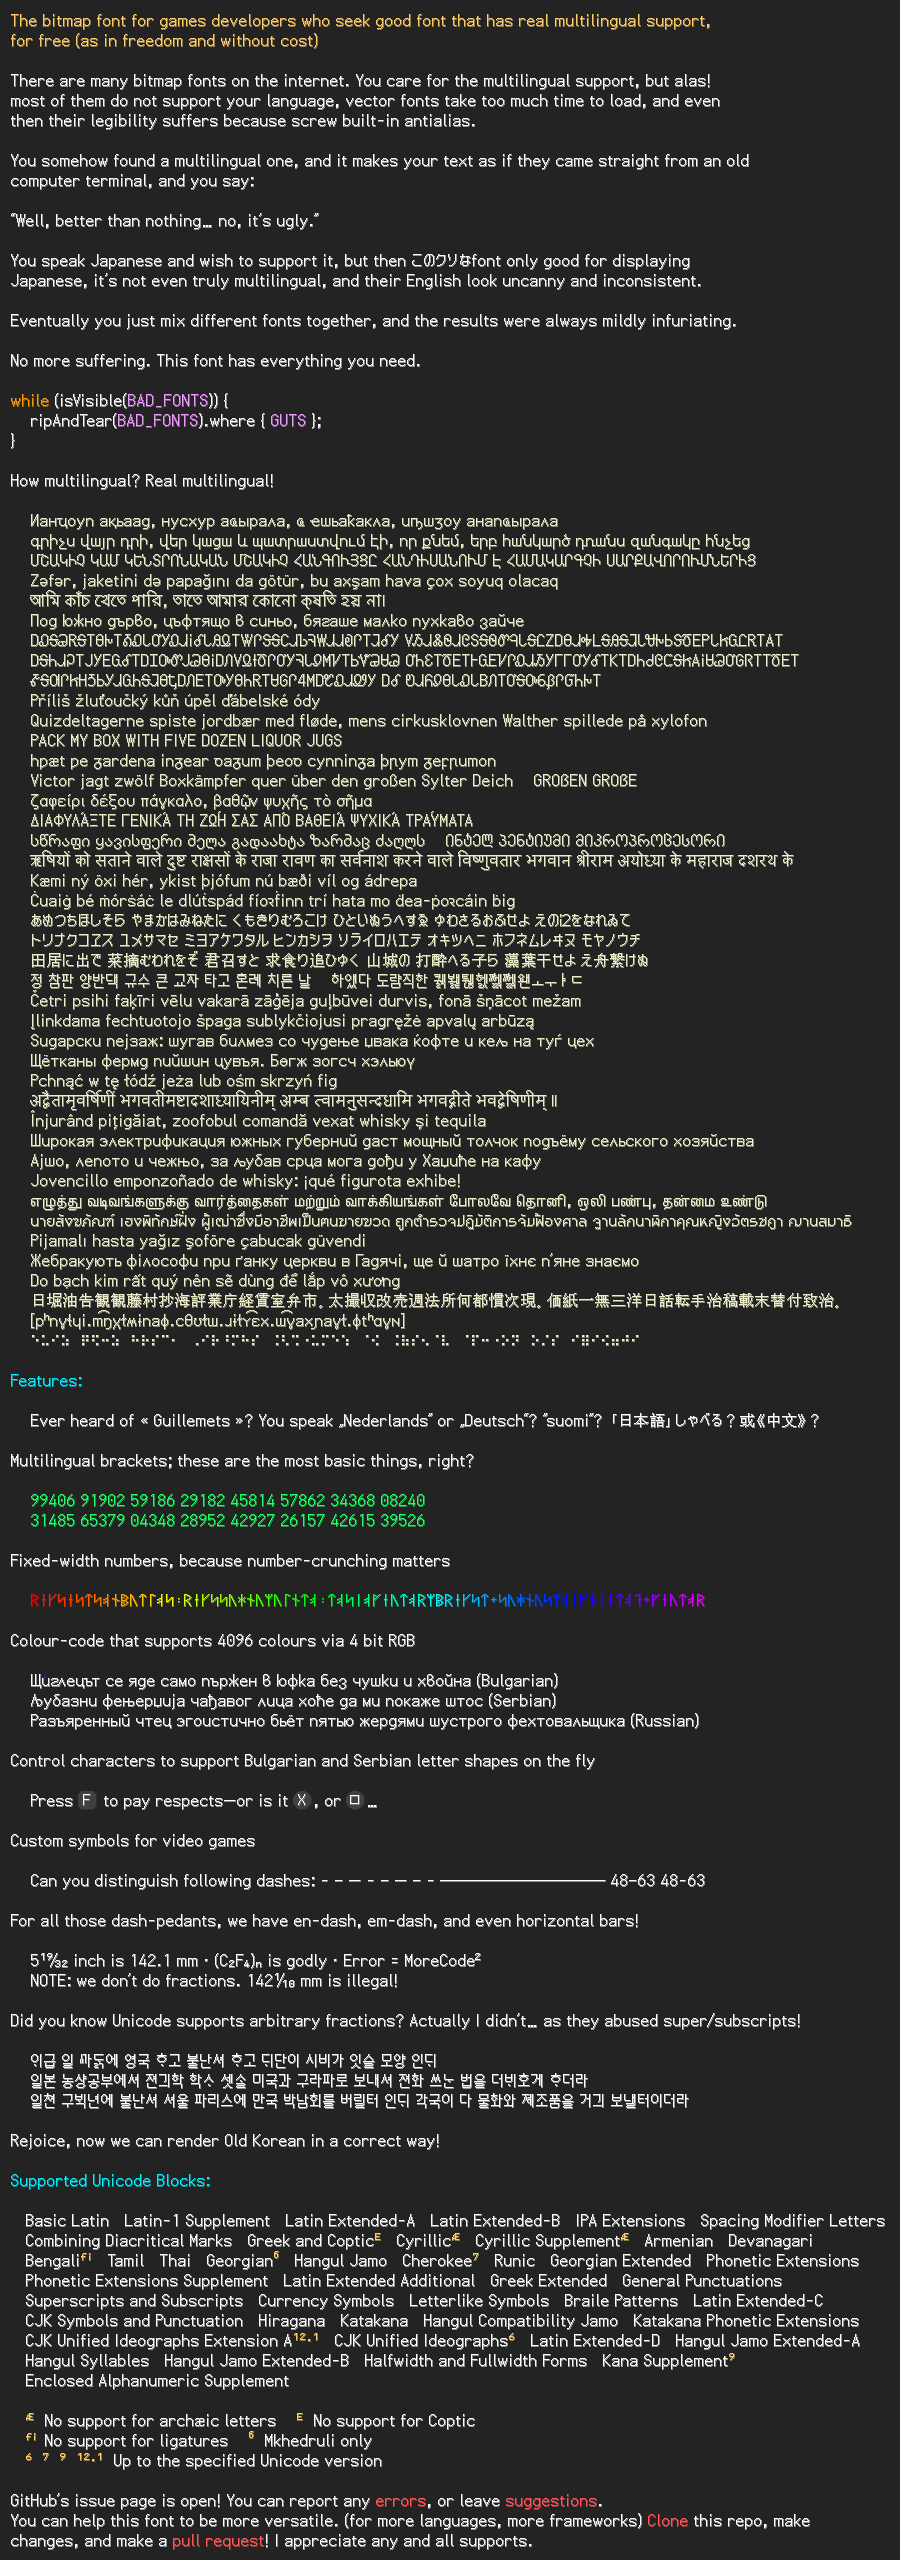
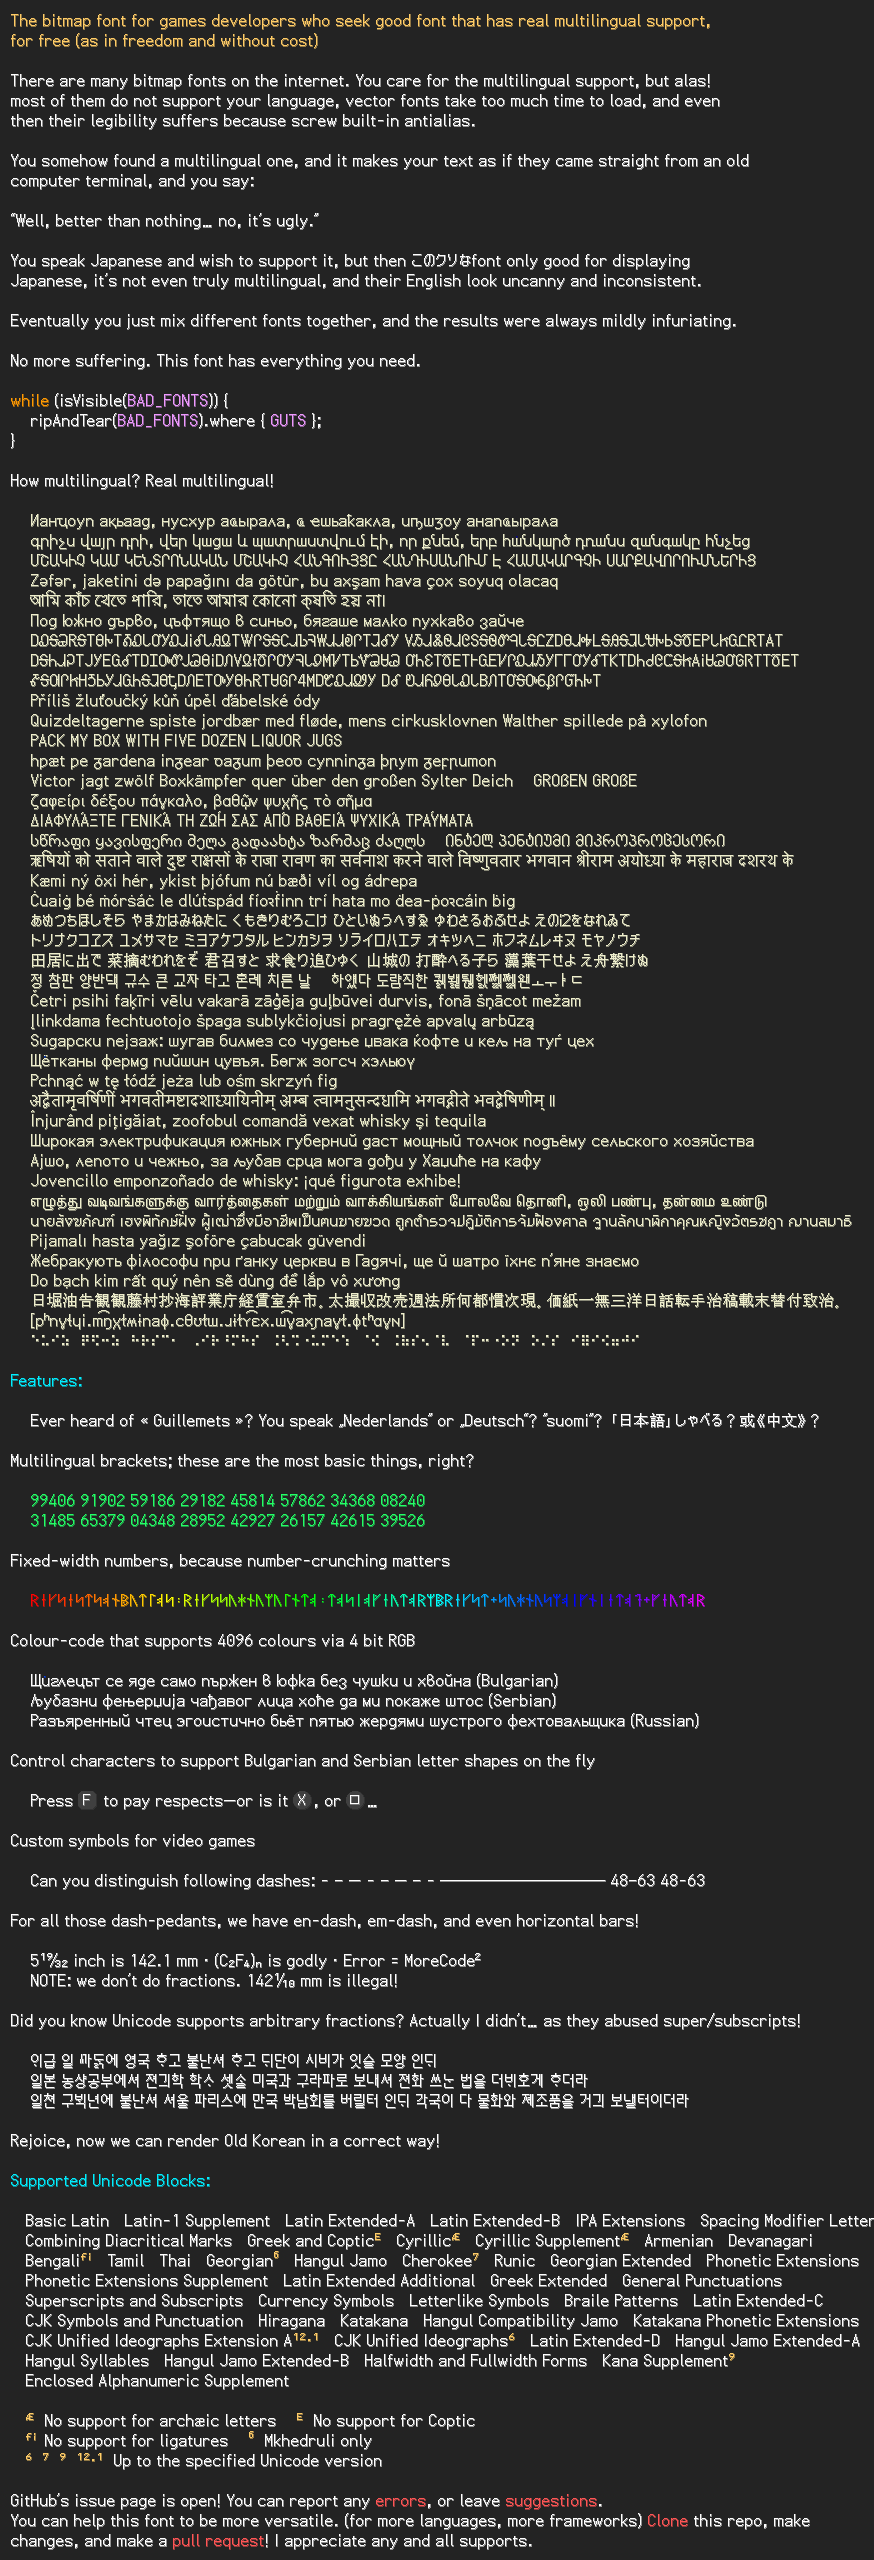
devanagari ligatures and glyph adjustments

Changed region(s): [[0.0, 0.0, 0.9577, 1.0], [0.6796, 0.7188, 0.7723, 0.75], [0.7723, 0.9688, 0.8032, 1.0]]

diff --git a/src/net/torvald/terrarumsansbitmap/gdx/TerrarumSansBitmap.kt b/src/net/torvald/terrarumsansbitmap/gdx/TerrarumSansBitmap.kt
@@ -30,10 +30,8 @@ import com.badlogic.gdx.graphics.Pixmap
 import com.badlogic.gdx.graphics.Texture
 import com.badlogic.gdx.graphics.g2d.*
 import com.badlogic.gdx.utils.GdxRuntimeException
-import com.ibm.icu.impl.Normalizer2Impl.Hangul.isHangul
 import net.torvald.terrarumsansbitmap.DiacriticsAnchor
 import net.torvald.terrarumsansbitmap.GlyphProps
-import net.torvald.terrarumsansbitmap.gdx.TerrarumSansBitmap.Companion.charInfo
 import java.io.BufferedOutputStream
 import java.io.FileOutputStream
 import java.util.*
@@ -1836,6 +1834,16 @@ class TerrarumSansBitmap(
                 0xF032D -> return listOf(0xF0372) // P+DDH.R
                 else -> return c1.toHalfFormOrVirama() + c2
             }
+            0x0936.toDevaInternal() -> /* Devanagari SHA */ when (c2) {
+                0x091A.toDevaInternal() -> return listOf(DEVANAGARI_LIG_SH_C) // SH.C
+                0x0928.toDevaInternal() -> return listOf(DEVANAGARI_LIG_SH_N) // SH.N
+                0x0932.toDevaInternal() -> return listOf(DEVANAGARI_ALT_HALF_SHA, c2) // SH.L
+                0x0935.toDevaInternal() -> return listOf(DEVANAGARI_LIG_SH_V) // SH.V
+                0xF0325 -> return listOf(0xF0358) // SH+C.R
+                0xF033D -> return listOf(DEVANAGARI_ALT_HALF_SHA, c2)// SH+L.R
+                0xF0340 -> return listOf(0xF035A) // SH+V.R
+                else -> return c1.toHalfFormOrVirama() + c2
+            }
             0x0937.toDevaInternal() -> /* Devanagari SSA */ when (c2) {
                 0x091F.toDevaInternal() -> return listOf(0xF0193) // SS.TT
                 0x0920.toDevaInternal() -> return listOf(0xF0194) // SS.TTH
@@ -2093,6 +2101,7 @@ class TerrarumSansBitmap(
 
         private val DEVANAGARI_OPEN_YA = 0xF0108
         private val DEVANAGARI_OPEN_HALF_YA = 0xF0109
+        private val DEVANAGARI_ALT_HALF_SHA = 0xF0119
         private val DEVANAGARI_RA_SUPER = 0xF010B
         private val DEVANAGARI_EYELASH_RA = 0xF010C
 
@@ -2107,6 +2116,9 @@ class TerrarumSansBitmap(
         private val DEVANAGARI_LIG_N_N = 0xF0175
         private val DEVANAGARI_LIG_S_V = 0xF0176
         private val DEVANAGARI_LIG_SS_P = 0xF0177
+        private val DEVANAGARI_LIG_SH_C = 0xF0178
+        private val DEVANAGARI_LIG_SH_N = 0xF0179
+        private val DEVANAGARI_LIG_SH_V = 0xF017A
 
         private val MARWARI_LIG_DD_DD = 0xF018A
         private val MARWARI_LIG_DD_DDH = 0xF018B
